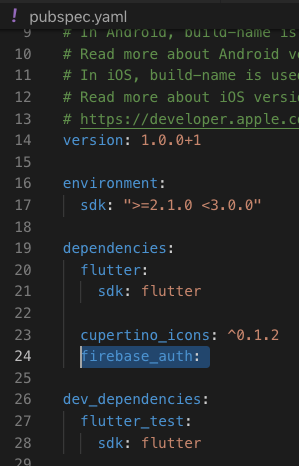
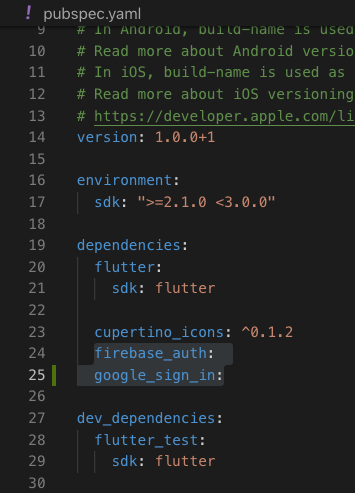
Google Plus Login

diff --git a/lib/pages/login_page.dart b/lib/pages/login_page.dart
@@ -3,6 +3,7 @@ import 'package:firebase_email_signin/pages/registration_page.dart';
 import 'package:flutter/cupertino.dart';
 import 'package:flutter/material.dart';
 import 'package:flutter/services.dart';
+import 'package:google_sign_in/google_sign_in.dart';
 
 class LoginPage extends StatefulWidget {
   @override
@@ -11,6 +12,8 @@ class LoginPage extends StatefulWidget {
 
 class _LoginPageState extends State<LoginPage> {
   final FirebaseAuth auth = FirebaseAuth.instance;
+  final GoogleSignIn googleSignIn = new GoogleSignIn();
+  bool isGoogleSignIn = false;
   String errorMessage = '';
   String successMessage = '';
   final GlobalKey<FormState> _formStateKey = GlobalKey<FormState>();
@@ -119,8 +122,7 @@ class _LoginPageState extends State<LoginPage> {
                           onPressed: () {
                             if (_formStateKey.currentState.validate()) {
                               _formStateKey.currentState.save();
-                              signIn(_emailId, _password)
-                                  .then((user) {
+                              signIn(_emailId, _password).then((user) {
                                 if (user != null) {
                                   print('Logged in successfully.');
                                   setState(() {
@@ -164,9 +166,40 @@ class _LoginPageState extends State<LoginPage> {
                   textAlign: TextAlign.center,
                   style: TextStyle(fontSize: 18, color: Colors.green),
                 )
-              : Container())
+              : Container()),
+          (!isGoogleSignIn
+              ? RaisedButton(
+                  child: Text('Google Login'),
+                  onPressed: () {
+                    googleSignin(context).then((user) {
+                      if (user != null) {
+                        print('Logged in successfully.');
+                        setState(() {
+                          isGoogleSignIn = true;
+                          successMessage =
+                              'Logged in successfully.\nEmail : ${user.email}\nYou can now navigate to Home Page.';
+                        });
+                      } else {
+                        print('Error while Login.');
+                      }
+                    });
+                  },
+                )
+              : RaisedButton(
+                  child: Text('Google Logout'),
+                  onPressed: () {
+                    googleSignout().then((response) {
+                      if (response) {
+                        setState(() {
+                          isGoogleSignIn = false;
+                          successMessage = '';
+                        });
+                      }
+                    });
+                  },
+                )),
         ],
-      )), 
+      )),
     );
   }
 
@@ -185,6 +218,39 @@ class _LoginPageState extends State<LoginPage> {
       handleError(e);
       return null;
     }
+  }
+
+  Future<FirebaseUser> googleSignin(BuildContext context) async {
+    FirebaseUser currentUser;
+    try {
+      final GoogleSignInAccount googleUser = await googleSignIn.signIn();
+      final GoogleSignInAuthentication googleAuth =
+          await googleUser.authentication;
+      final AuthCredential credential = GoogleAuthProvider.getCredential(
+        accessToken: googleAuth.accessToken,
+        idToken: googleAuth.idToken,
+      );
+
+      final FirebaseUser user = await auth.signInWithCredential(credential);
+      assert(user.email != null);
+      assert(user.displayName != null);
+      assert(!user.isAnonymous);
+      assert(await user.getIdToken() != null);
+
+      currentUser = await auth.currentUser();
+      assert(user.uid == currentUser.uid);
+      print(currentUser);
+      print("User Name  : ${currentUser.displayName}");
+    } catch (e) {
+      handleError(e);
+    }
+    return currentUser;
+  }
+
+  Future<bool> googleSignout() async {
+    await auth.signOut();
+    await googleSignIn.signOut();
+    return true;
   }
 
   handleError(PlatformException error) {

diff --git a/README.md b/README.md
@@ -1,10 +1,10 @@
 # firebase_email_signin
 
-- Google Firebase Login using Flutter. 
+- Google Firebase Email and Google Plus Login using Flutter. 
 
 ## Introduction:
 
-- Google firebase is trending nowadays. Google firebase has around 10 signin methods which includes email, google, facebook, phone, twitter, yahoo etc login. We are covering only on email login in this article. We will cover other login methods in next articles. I would like to say that email login method is one of the easiest login methods using google firebase. Now, we are going step by step. I have given git repository link in the bottom as well.
+- Google firebase is trending nowadays. Google firebase has around 10 signin methods which includes email, google, facebook, phone, twitter, yahoo etc login. We are covering only on email and google login in this article. Now, we are going step by step. I have given git repository link in the bottom as well.
 
 ## Steps:
 1. First and basic step to create new application in flutter. If you are a beginner in flutter then you can check my blog Create a first app in Flutter. I have created app named as “flutter_email_signin”
@@ -51,9 +51,11 @@
     -   Hurrey :) your android app has been created.
 
 
-3. Now, you need to enable Email/Password Sign In method in firebase. For that you need to go to the Authentication tab and then Signin method tab. From there enable Email/Password sign in method. Please check the screenshot.
+3. Now, you need to enable Email/Password and Google Sign In method in firebase. For that you need to go to the Authentication tab and then Signin method tab. From there enable Email/Password and Google sign in method. Please check the screenshot.
 
     ![alt text](https://raw.githubusercontent.com/myvsparth/firebase_email_signin/master/screenshots/5.png)
+
+    ![alt text](https://raw.githubusercontent.com/myvsparth/firebase_email_signin/master/screenshots/8.png)
 
     -   You are all done with firebase Setup. Congratulations…. :)
 
@@ -62,6 +64,7 @@
     -   Add below dependencies and save the file
         ```
         firebase_auth:
+        google_sign_in:
         ```
     -   Please check below screenshot you will get more idea where to add the dependency
 
@@ -77,7 +80,7 @@
     import 'package:firebase_auth/firebase_auth.dart';
     ```
 
-    SignUp Programmatically in Google Firebase:
+    SignUp Using Email/Password in Google Firebase:
 
     ```
     Future<FirebaseUser> signUp(email, password) async {
@@ -95,7 +98,7 @@
     ```
  
 
-    SignIn Programmatically in Google Firebase:
+    SignIn Using Email/Password in Google Firebase:
 
     ```
     Future<FirebaseUser> signIn(String email, String password) async {
@@ -115,6 +118,47 @@
         }
     }
     ```
+
+    Sign In using Google:
+    
+    ```
+    Future<FirebaseUser> googleSignin(BuildContext context) async {
+        FirebaseUser currentUser;
+        try {
+            final GoogleSignInAccount googleUser = await googleSignIn.signIn();
+            final GoogleSignInAuthentication googleAuth =
+                await googleUser.authentication;
+            final AuthCredential credential = GoogleAuthProvider.getCredential(
+            accessToken: googleAuth.accessToken,
+            idToken: googleAuth.idToken,
+            );
+
+            final FirebaseUser user = await auth.signInWithCredential(credential);
+            assert(user.email != null);
+            assert(user.displayName != null);
+            assert(!user.isAnonymous);
+            assert(await user.getIdToken() != null);
+
+            currentUser = await auth.currentUser();
+            assert(user.uid == currentUser.uid);
+            print(currentUser);
+            print("User Name  : ${currentUser.displayName}");
+        } catch (e) {
+            handleError(e);
+        }
+        return currentUser;
+    }
+    ```
+
+    Signout from Google:
+		
+    ```
+    Future<bool> googleSignout() async {
+        await auth.signOut();
+        await googleSignIn.signOut();
+        return true;
+    }
+    ```
  
 6. When you sign up successfully you can check that google firebase store the user detail in server. Please check the screenshot.
 
@@ -127,7 +171,7 @@
 -   https://github.com/myvsparth/firebase_email_signin
 
 ## Conclusion:
-- Google firebase is very good service provider in terms of data validation, data store, realtime data, push notification. We have only used google firebase for sign in feature. We can do more out of it.
+- Google firebase is very good service provider in terms of data validation, data store, realtime data, push notification. We have only used google firebase email and google for sign in feature. We can do more out of it.
 
 
 For help getting started with Flutter, view 
